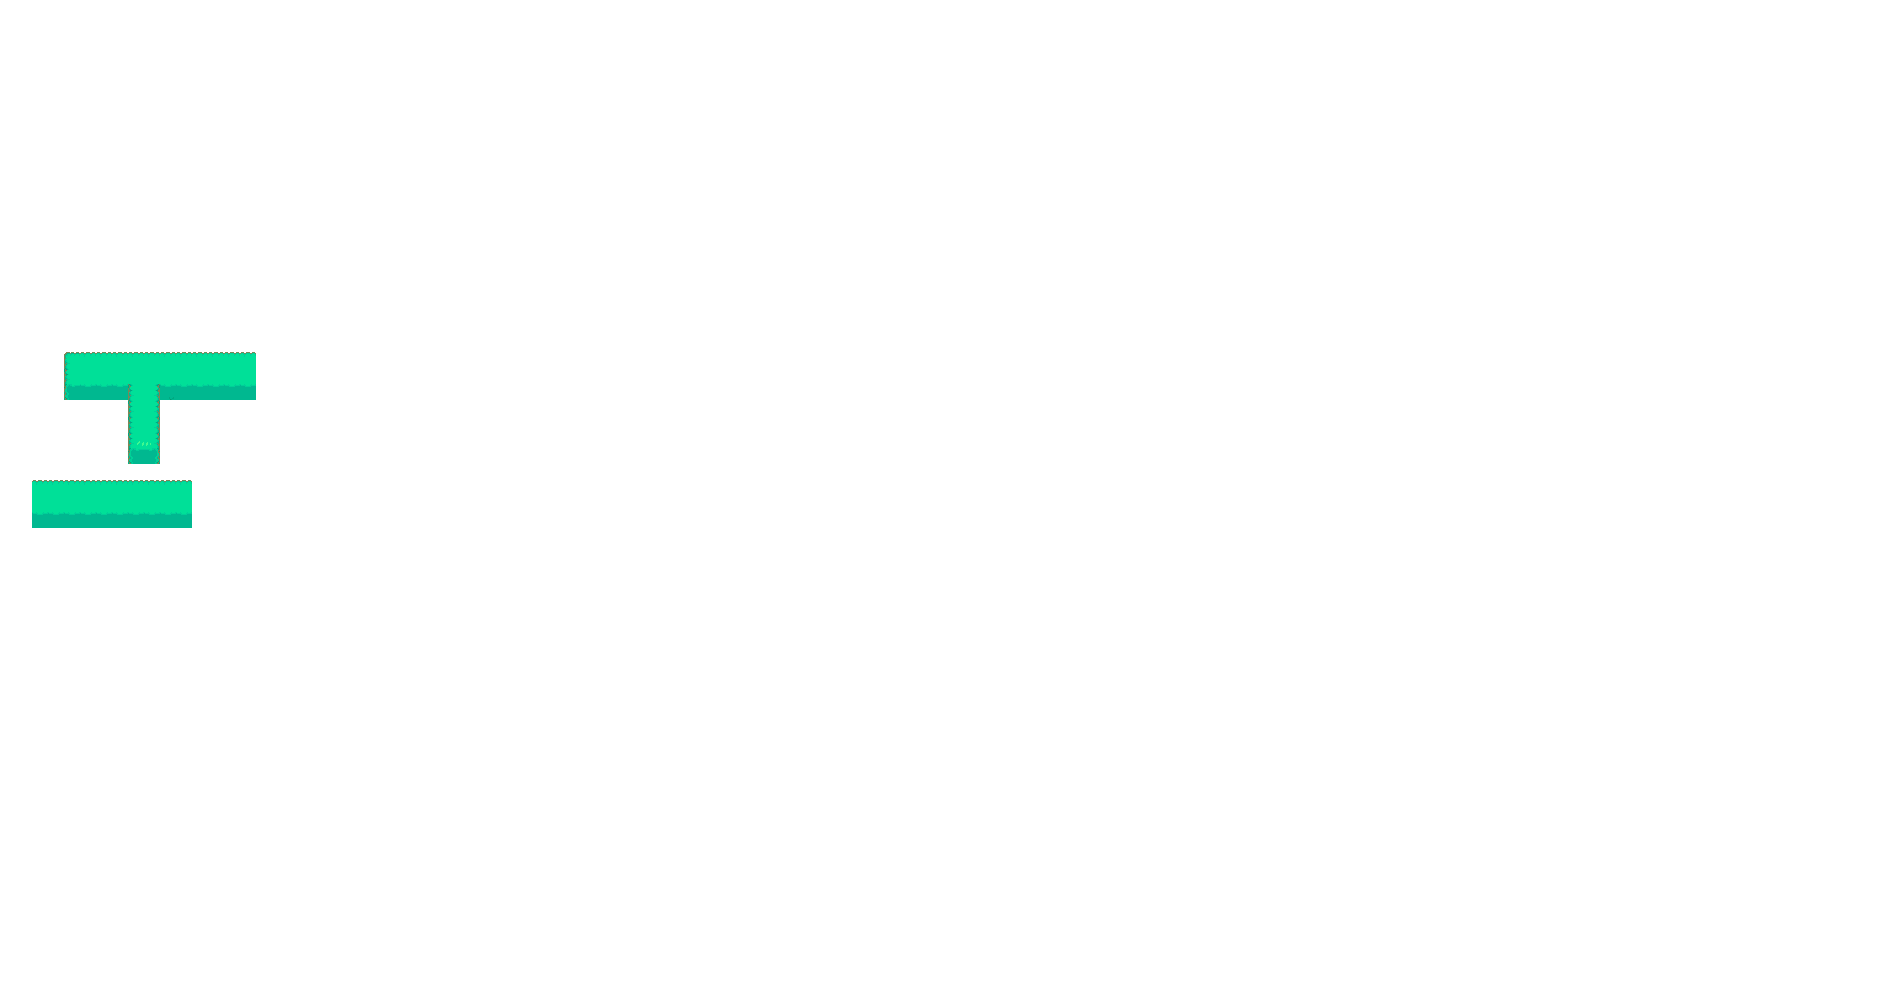
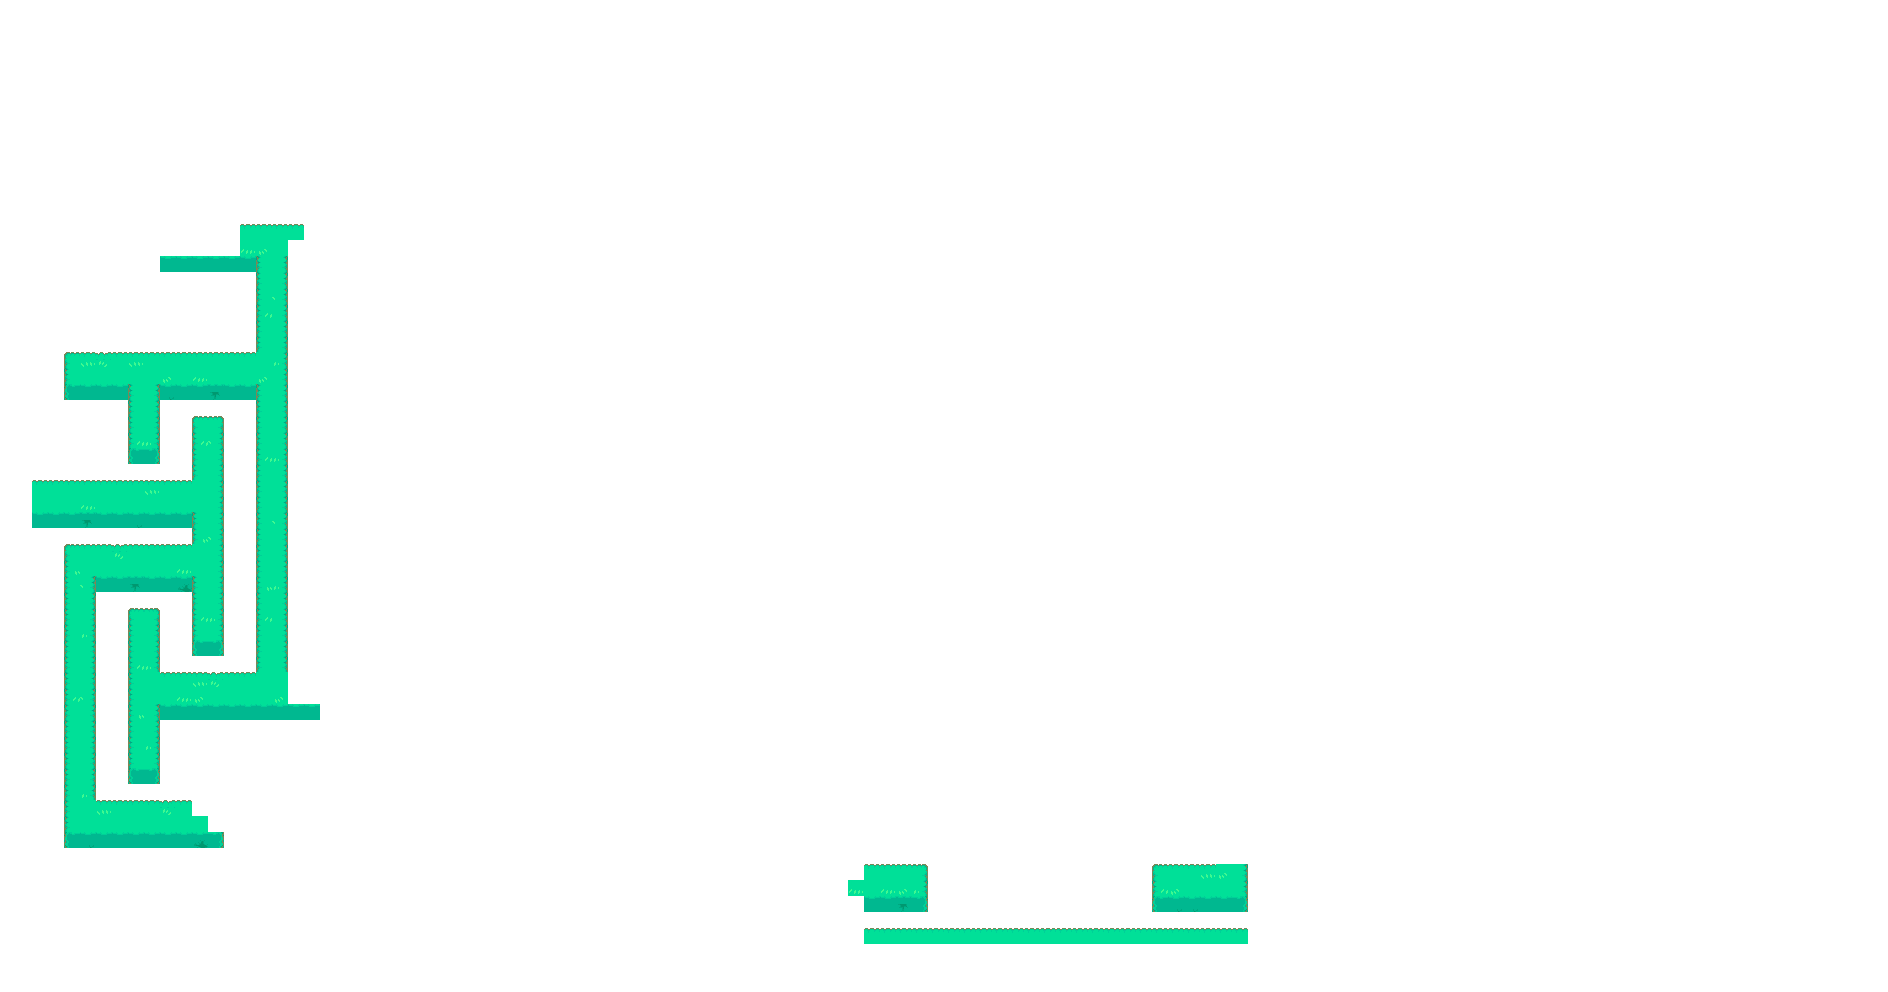
Adding collision handling for key to player

Changed region(s): [[0.0312, 0.2188, 0.1875, 0.875], [0.4375, 0.8438, 0.6875, 0.9688]]

diff --git a/simple_puzzles/puzzles/fox_maze/puzzle/Key.js b/simple_puzzles/puzzles/fox_maze/puzzle/Key.js
@@ -1,0 +1,175 @@
+const { keys } = require('object-hash');
+const { checkBoundingBoxesCollision } = require('./helpers/collision');
+
+const keyColor = Object.freeze({
+    RED: 'RED',
+    GREEN: 'GREEN',
+    BLUE: 'BLUE',
+});
+
+const keyState = Object.freeze({
+    UNCOLLECTED: 'UNCOLLECTED',
+    COLLECTED: 'COLLECTED',
+});
+
+// Audio
+const audio = new Audio('collect.mp3');
+
+// Sprite
+const offsetY = -12;
+
+// Bounding Box - Static Definitions
+const centerX = 16;
+const centerY = 28;
+const bbWidth = 10;
+const bbHeight = 10;
+
+// Bounding Box - Calculated
+const bbLeftX = centerX - bbWidth / 2;
+const bbRightX = centerX + bbWidth / 2;
+const bbTopY = centerY - bbHeight / 2;
+const bbBottomY = centerY + bbHeight / 2;
+class Key {
+    constructor(engine, startingX, startingY, color) {
+        this.engine = engine;
+        
+        // Animation Constants
+        this.spr = new Image();
+        switch(color) {
+            case keyColor.RED:
+                this.spr.src = './key_red.png';
+                break;
+            case keyColor.BLUE:
+                this.spr.src = './key_blue.png';
+                break;
+            case keyColor.GREEN:
+                this.spr.src = './key_green.png';
+                break;
+            default:
+                throw new Error(`Invalid color provided: ${color}`);
+        }
+        this.sprWidth = 32;
+        this.sprHeight = 32;
+
+        // Animation and Movement
+        this.currentAnimationFrame = 0;
+        this.currentAnimationWaitFrame = 0;
+        this.engineFramesPerAnimationFrame = 6;
+        this.currentAnimationMaxFrames;
+
+        // State
+        this.state = keyState.UNCOLLECTED;
+        this.lastState;
+        this.x = startingX;
+        this.y = startingY;
+    }
+
+    // Bounding Box
+    getBoundingLeft() {
+        return this.x + bbLeftX;
+    }
+    getBoundingRight() {
+        return this.x + bbRightX;
+    }
+    getBoundingTop() {
+        return this.y + bbTopY + offsetY;
+    }
+    getBoundingBottom() {
+        return this.y + bbBottomY + offsetY;
+    }
+
+    update() {
+        if (!this.isCollected() && checkBoundingBoxesCollision(this, this.engine.getPlayerObject())) {
+            console.log("collected");
+            audio.currentTime = 0;
+            audio.play();
+            this.updateState(keyState.COLLECTED);
+        }
+    }
+
+    draw(ctx) {
+        // Check sprite for state update
+        this.checkForSpriteStateUpdate();
+
+        // Draw Sprite
+        this.engine.submitImageForDraw(70,
+            this.spr, 
+            this.currentAnimationFrame * this.sprWidth, 
+            this.currentAnimationSpritesheetRow, 
+            this.sprWidth, 
+            this.sprHeight, 
+            this.isCollected() ? 50 : (this.x - this.engine.winX), 
+            this.isCollected() ? 50 : (this.y - this.engine.winY + offsetY), 
+            this.sprWidth, 
+            this.sprHeight);
+
+        // Draw Hitboxes
+        if (this.engine.drawHitboxes) {
+            // Draw collision hitbox
+            this.engine.submitBoundingBoxForDraw(99, "red",
+                this.x + bbLeftX - this.engine.winX, 
+                this.y + bbTopY - this.engine.winY + offsetY, 
+                bbWidth, 
+                bbHeight);
+        }
+        
+        // Setup properties for next rendered frame
+        this.setupNextAnimationFrame();    
+    }
+
+    checkForSpriteStateUpdate() {
+        // If state changed, cut to new animation
+        if (this.lastState != this.state) {
+            this.lastState = this.state;
+
+            switch(this.state)
+            {
+                case keyState.UNCOLLECTED:
+                    this.currentAnimationMaxFrames = 4 - 1;
+                    this.currentAnimationSpritesheetRow = 0;
+                    this.currentAnimationFrame = 0;
+                    break;
+                case keyState.COLLECTED:
+                    this.currentAnimationMaxFrames = 1 - 1;
+                    this.currentAnimationSpritesheetRow = 1;
+                    this.currentAnimationFrame = 0;
+                    break;
+                default:
+            } 
+        }
+    }
+
+    setupNextAnimationFrame() {
+        // Continue to wait is there remain wait frames
+        if (this.currentAnimationWaitFrame != this.engineFramesPerAnimationFrame) {
+            this.currentAnimationWaitFrame++;
+            
+        // Else move to setup next frame and reset current wait frame to 0
+        } else {
+            this.currentAnimationWaitFrame = 0;
+            
+            // Loop at end of animation
+            if (this.currentAnimationFrame == this.currentAnimationMaxFrames) {
+                this.currentAnimationFrame = 0;
+                return;
+            }
+
+            // Progress to next frame of current animation
+            this.currentAnimationFrame++;
+        }
+    }
+
+    isCollected() {
+        return this.state === keyState.COLLECTED;
+    }
+
+    updateState(newState) {
+        if (newState !== this.state) {
+            this.state = newState;
+        }
+    }
+}
+
+module.exports = {
+    keyColor, Key
+}

diff --git a/simple_puzzles/puzzles/fox_maze/puzzle/script.js b/simple_puzzles/puzzles/fox_maze/puzzle/script.js
@@ -1,5 +1,6 @@
 const { ipcRenderer } = require('electron');
 const { Chest, chestColor } = require('./Chest');
+const { Key, keyColor } = require('./Key');
 const { Fox } = require('./Fox');
 const { Engine } = require('./Engine');
 
@@ -20,10 +21,12 @@ const engine = new Engine(ctx, 50, 50);
 engine.setMapCollision(mapCollision);
 
 
-let redChest = new Chest(engine, 3*32, 14*32, chestColor.RED);
+const redKey = new Key(engine, 1*32, 12*32, keyColor.RED);
+const redChest = new Chest(engine, 3*32, 14*32, chestColor.RED);
 engine.addObjectSolid(redChest);
 
 let fox = new Fox(engine, 2 * 32, 14 * 32);
+engine.setPlayerObject(fox);
 
 let lastEngineFrame = -1;
 tick(0);
@@ -37,6 +40,8 @@ function tick(timestamp) {
 
         fox.checkAndUpdateMovement();
 
+        redKey.update();
+
         ctx.clearRect(0, 0, canvas.width, canvas.height);
         
         // Background color in case we go outside the maze
@@ -49,6 +54,7 @@ function tick(timestamp) {
         
         fox.draw(ctx);
 
+        redKey.draw(ctx);
         redChest.draw(ctx);
     
         // Draw map hitboxes

diff --git a/simple_puzzles/puzzles/fox_maze/puzzle/chest.js b/simple_puzzles/puzzles/fox_maze/puzzle/chest.js
@@ -40,7 +40,7 @@ class Chest {
         this.currentAnimationMaxFrames;
 
         // State
-        this.state = chestState.CLOSED; // Standing
+        this.state = chestState.CLOSED;
         this.lastState;
         this.x = startingX;
         this.y = startingY;
@@ -58,6 +58,15 @@ class Chest {
     }
     getBoundingBottom() {
         return this.y + bbBottomY;
+    }
+
+    update() {
+        // for (const objectSolid of this.engine.getObjectSolidList()) {
+        //     if (checkBoundingBoxesCollision(this, objectSolid, 0, this.maxSpeed)) {
+        //         isCollided = true;
+        //         moveToBoundingBoxCollisionTop(this, objectSolid);
+        //     }
+        // }
     }
 
     draw(ctx) {

diff --git a/simple_puzzles/puzzles/fox_maze/puzzle/Fox.js b/simple_puzzles/puzzles/fox_maze/puzzle/Fox.js
@@ -47,9 +47,9 @@ class Fox {
         this.engineFramesPerAnimationFrame = 3;
         this.currentAnimationMaxFrames;
         this.currentAnimationSpritesheetRow;
-        this.maxSpeed = 7;
+        this.maxSpeed = 4;
 
-        // Fox State
+        // State
         this.state = foxState.STANDING; // Standing
         this.lastState;
         this.x = startingX;
@@ -223,8 +223,8 @@ class Fox {
                         this.currentAnimationSpritesheetRow = 0;
                     }
                 }
-                this.currentAnimationFrame = 0;
 
+                this.currentAnimationFrame = 0;
                 return;
             }
             

diff --git a/simple_puzzles/puzzles/fox_maze/puzzle/helpers/collision.js b/simple_puzzles/puzzles/fox_maze/puzzle/helpers/collision.js
@@ -1,3 +1,7 @@
+function checkBoundingBoxesCollision(o1, o2) {
+    return checkMovingBoundingBoxesCollision(o1, o2, 0, 0);
+}
+
 function checkMovingBoundingBoxesCollision(o1, o2, xMov, yMov) {
     return !(
         ((o1.getBoundingTop() + yMov) > (o2.getBoundingBottom())) || // Collide at bottom
@@ -21,6 +25,7 @@ function moveToBoundingBoxCollisionLeft(o1, o2) {
 }
 
 module.exports = {
+    checkBoundingBoxesCollision ,
     checkMovingBoundingBoxesCollision, 
     moveToBoundingBoxCollisionBottom,
     moveToBoundingBoxCollisionTop,

diff --git a/simple_puzzles/puzzles/fox_maze/puzzle/Engine.js b/simple_puzzles/puzzles/fox_maze/puzzle/Engine.js
@@ -5,13 +5,22 @@ class Engine {
         this.winX = winX;
         this.winY = winY;
 
-        // Collision Information
+        // Game Object Information
         this.mapCollision;
+        this.playerObject;
         this.objectSolidList = [];
 
         // Drawing
         this.drawHitboxes = false;
         this.renderCache = {};
+    }
+
+    setPlayerObject(playerObject) {
+        this.playerObject = playerObject;
+    }
+
+    getPlayerObject() {
+        return this.playerObject;
     }
 
     setMapCollision(mapCollision) {
